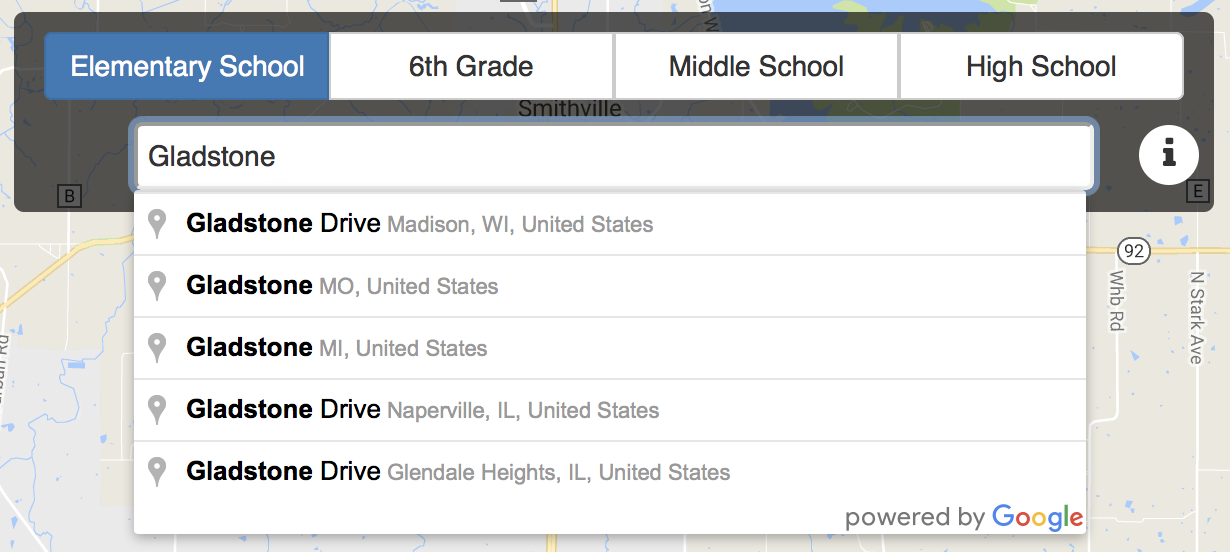
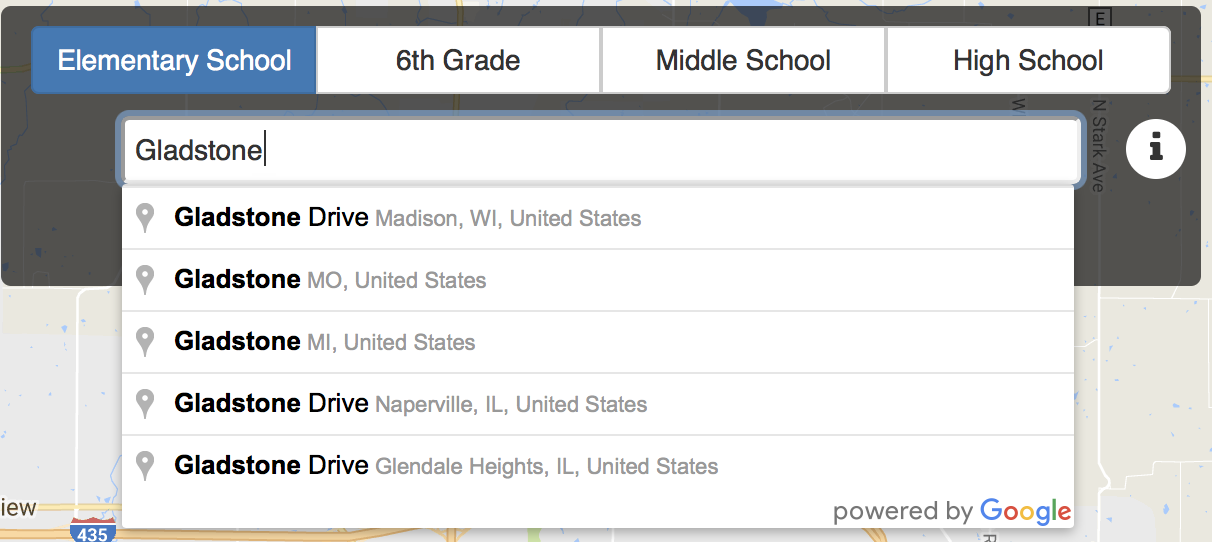
update

diff --git a/northKansasCityPublicSchools/js/customMap.js b/northKansasCityPublicSchools/js/customMap.js
@@ -1100,12 +1100,62 @@ var northKansasCityPublicSchools = (function () {
 		}
 	};
 	
+	function clickedChangeGeocoder1(source) {
+		var box = document.getElementById(source);
+		var active = box.classList.contains('btn-primary');
+		if (active == true) {
+			box.classList.remove('btn-primary');
+			box.classList.add('btn-default');
+			document.getElementById("formOne").style.visibility = "hidden";
+						
+			clickedChangeGeocoder2('buttonTwo2');
+		} else if (active == false) {
+			box.classList.remove('btn-default');
+			box.classList.add('btn-primary');
+			document.getElementById("formOne").style.visibility = "visible";
+			
+			var box2 = document.getElementById('buttonTwo2');
+			try {
+				box2.classList.remove('btn-primary');
+				box2.classList.add('btn-default');
+			} catch (err) {
+				console.log("Found an error");
+			}
+		}
+	};
+	
+	function clickedChangeGeocoder2(source) {
+		var box = document.getElementById(source);
+		var active = box.classList.contains('btn-primary');
+		if (active == true) {
+			box.classList.remove('btn-primary');
+			box.classList.add('btn-default');
+			document.getElementById("customInput").style.visibility = "hidden";
+			
+			clickedChangeGeocoder1('buttonOne2');
+		} else if (active == false) {
+			box.classList.remove('btn-default');
+			box.classList.add('btn-primary');
+			document.getElementById("customInput").style.visibility = "visible";
+			
+			var box2 = document.getElementById('buttonOne2');
+			try {
+				box2.classList.remove('btn-primary');
+				box2.classList.add('btn-default');
+			} catch (err) {
+				console.log("Found an error");
+			}
+		}
+	};
+	
 	return {
 		initMap: initMap,
 		clickedAddDataButtonOne: clickedAddDataButtonOne,
 		clickedAddDataButtonTwo: clickedAddDataButtonTwo,
 		clickedAddDataButtonThree: clickedAddDataButtonThree,
-		clickedAddDataButtonFour: clickedAddDataButtonFour
+		clickedAddDataButtonFour: clickedAddDataButtonFour,
+		clickedChangeGeocoder1: clickedChangeGeocoder1,
+		clickedChangeGeocoder2: clickedChangeGeocoder2
 	};
 })();
 
@@ -1127,6 +1177,7 @@ $(document).ready(function() {
 	northKansasCityPublicSchools.initMap();
 	$('#myModal').modal('show');
 	northKansasCityPublicSchools.clickedAddDataButtonOne("buttonOne");
+	northKansasCityPublicSchools.clickedChangeGeocoder1("buttonOne2");
 });
 
 

diff --git a/northKansasCityPublicSchools/index.html b/northKansasCityPublicSchools/index.html
@@ -37,11 +37,18 @@
 		
 		<input id="formOne" type="text" name="geosearch" placeholder="Type your address here"><br>
 		
-		<input id="customInput" type="text" name="customInput" placeholder="Use a designated list of addresses">
+		<input id="customInput" type="text" name="customInput" placeholder="Type your address here">
 		
 		<div id="questionOne" data-toggle="modal" data-target="#myModal">
 			<!--<i class="fa fa-question" aria-hidden="true"></i>-->
 			<i class="fa fa-info" aria-hidden="true"></i>
+		</div>
+		
+		<div id="buttonBox2">
+			<div class="btn-group btn-group-justified">
+  				<a id="buttonOne2" class="btn btn-default" onclick="northKansasCityPublicSchools.clickedChangeGeocoder1(this.id)">Google Search</a>
+  				<a id="buttonTwo2" class="btn btn-default" onclick="northKansasCityPublicSchools.clickedChangeGeocoder2(this.id)">Custom Search</a>
+			</div>
 		</div>
 	</div>
 	<!-- // Map Container -->
@@ -59,7 +66,7 @@
       				<!-- TODO -->
         			<p style="text-align: center;">You can use this tool to view which school is available to you based on where you live.</p>
         			<hr>
-        			<p>1. Choose a school scenario, then type your address in the window at the top - a dropdown will appear to help you complete your address.</p>
+        			<p>1. Choose a school scenario, then type your address in the window at the top - a dropdown will appear to help you complete your address. You may choose either a Google Search from the Google Database addresses or a Custom Search from a designated list of addresses.</p>
         			<img class="img-responsive" src="data/info1.png" alt="info1">
         			<br>
         			<br>

diff --git a/northKansasCityPublicSchools/css/customMap.css b/northKansasCityPublicSchools/css/customMap.css
@@ -21,7 +21,7 @@ html, body {
 #searchMenu {
 	position: absolute;
 	width: 600px;
-	height: 120px;
+	height: 140px;
 	background: rgba(0,0,0,0.65);
 	left: 0;
 	right: 0;
@@ -40,6 +40,15 @@ html, body {
 	margin: auto;
 }
 
+#searchMenu #buttonBox2 {
+	position: absolute;
+	top: 100px;
+	width: 50%;
+	left: 0;
+	right: 0;
+	margin: auto;
+}
+
 
 #searchMenu #formOne {
 	width: 80%;
@@ -50,17 +59,21 @@ html, body {
 	padding-top: 5px;
 	padding-bottom: 5px;
 	padding-left: 5px;
+	visibility: visible;
 }
 
 #searchMenu #customInput {
+	position: absolute;
+	top: 55px;
 	width: 80%;
 	margin-left: 10%;
 	margin-right: 10%;
-	margin-top: 55px;
+	margin-top: 0px;
 	border-radius: 4px;
 	padding-top: 5px;
 	padding-bottom: 5px;
 	padding-left: 5px;
+	visibility: hidden;
 }
 
 #searchMenu #questionOne {

diff --git a/northKansasCityPublicSchools/lib/awesomplete-gh-pages/awesomplete.css b/northKansasCityPublicSchools/lib/awesomplete-gh-pages/awesomplete.css
@@ -8,8 +8,10 @@
 }
 
 .awesomplete {
-    display: inline-block;
-    position: relative;
+	width: 100%;
+	margin: 0 auto;
+    #display: inline-block;
+    #position: relative;
 }
 
 .awesomplete > input {
